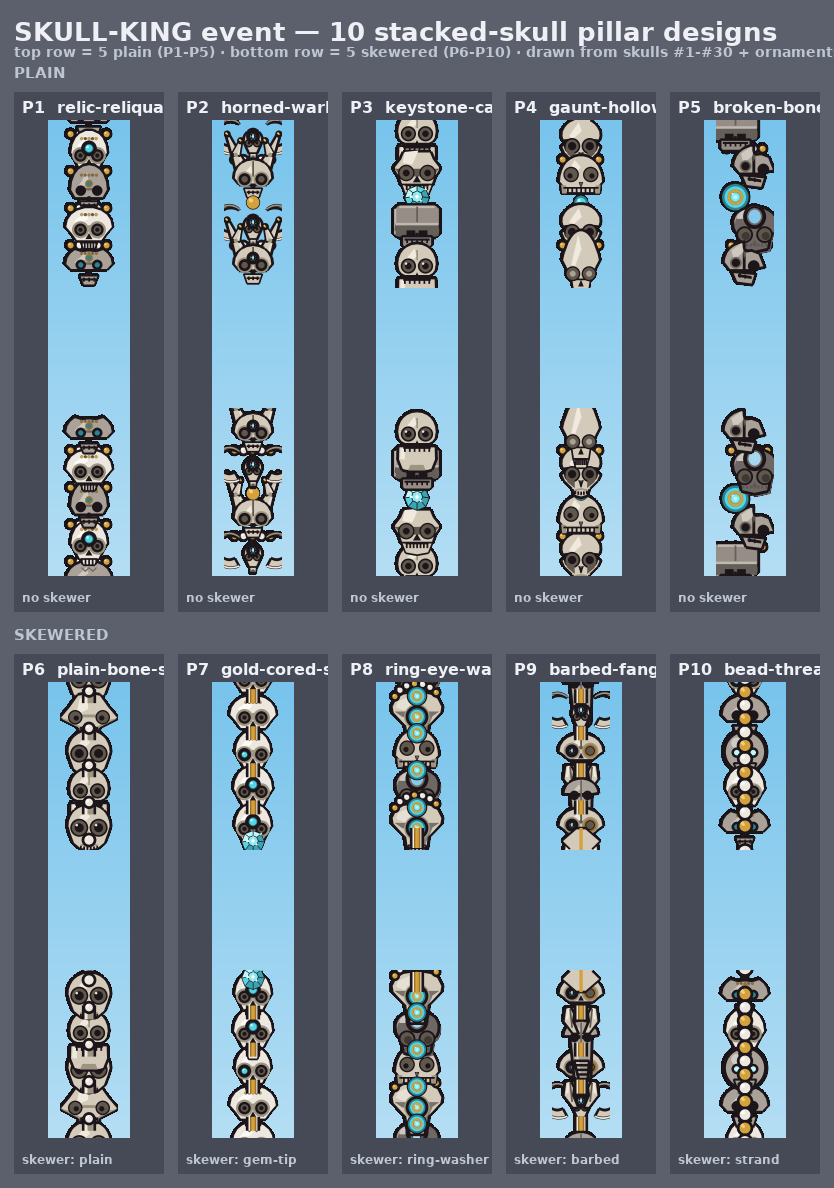
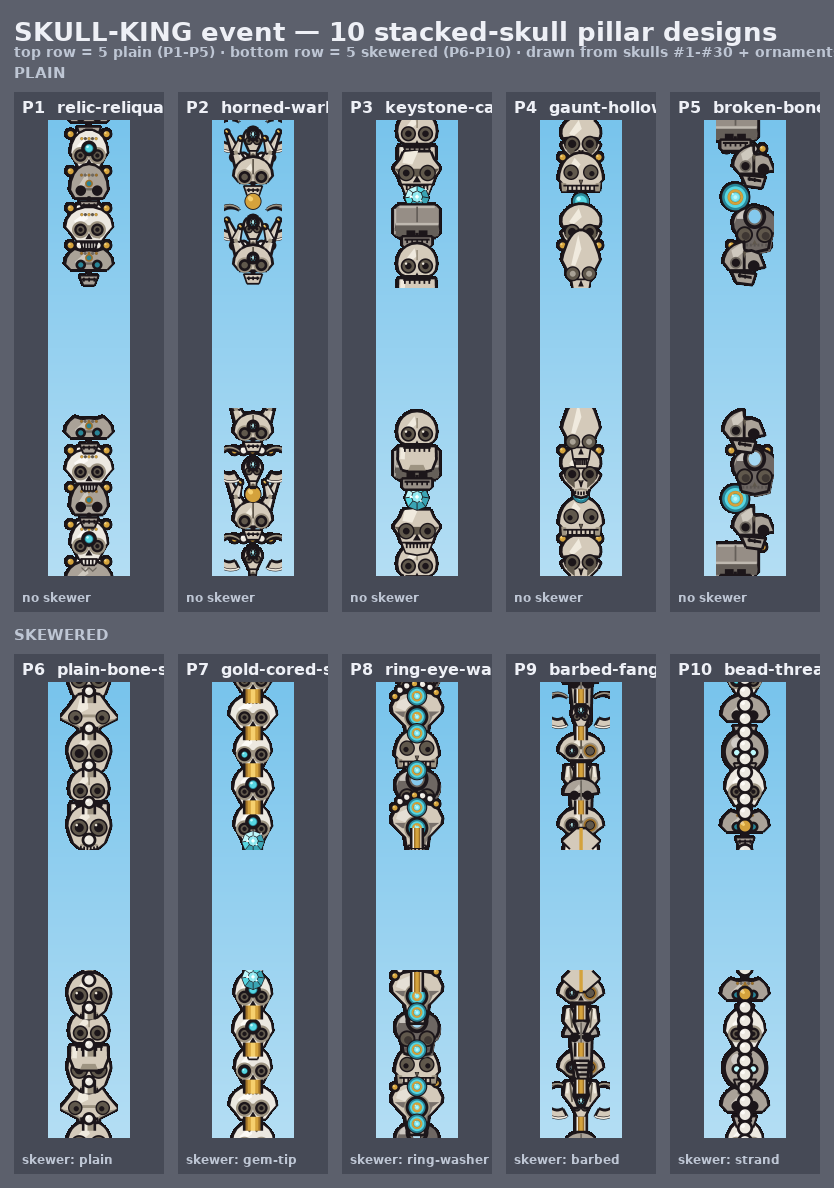
pillars: round-2 art-director fixes
Split the P7/P10 relic-family collision: P7 gold-cored-scepter now rides
a thick bright solid gold rod (the King's staff); P10 strand recolored to
a bone-white bead cord on a thin dark thread (gold dropped) so it reads as
a beaded spindle vs a metal rod. Boosted the seam-joint bead size so P4
gaunt-hollow-spire's lone cyan accent registers at 58px.

Claude-Session: https://claude.ai/code/session_01JdHJ2TbdY51oSPSCYSsaHZ

diff --git a/docs/skull_king_stack/pillars/pillar_engine.py b/docs/skull_king_stack/pillars/pillar_engine.py
@@ -29,7 +29,7 @@ def _meta(token):
     if token.startswith("orn:"):
         fn = token.split(":", 1)[1]
         if fn in _BEAD_FNS:
-            return dict(kind="bead", r=R * 0.30)
+            return dict(kind="bead", r=R * 0.36)        # chunky enough to register as a seam joint at 58px
         if fn == "gem_thirdeye":
             return dict(kind="gem", r=R * 0.54)
         return dict(kind="ring", r=R * 0.58)        # ornament_necklace
@@ -78,11 +78,26 @@ def _rod_plain(big, cx, ya, yb):
     pygame.draw.rect(big, sk.BONE_SH, (cx - hw, y, max(1, int(1.6 * s)), h))
 
 
+def _rod_gold(big, cx, ya, yb):
+    """A thick, bright GOLD scepter core (the King's staff) — gold-dominant and
+    WIDER than the bone rods so the through-line reads as a solid metal shaft, not a
+    bead cord (this is what separates the scepter from the bead-strand spindle)."""
+    s = S_UNIT * SS
+    hw = RK._SK_HW + int(1.6 * s)
+    y, h = int(min(ya, yb)), int(abs(yb - ya))
+    pygame.draw.rect(big, sk.INK, (cx - hw - int(1.4 * s), y, 2 * (hw + int(1.4 * s)), h))
+    pygame.draw.rect(big, sk.GOLD_D, (cx - hw, y, 2 * hw, h))
+    pygame.draw.rect(big, sk.GOLD, (cx - int(hw * 0.72), y, int(hw * 1.44), h))
+    pygame.draw.rect(big, sk.GOLD_BR, (cx - int(hw * 0.30), y, int(hw * 0.60), h))
+
+
 def _skewer_bg(big, cx, y0, y1, style):
     """The shaft drawn BEHIND the stack (shows in the gaps between tiers)."""
     cx = int(cx)
     if style == "plain":
         _rod_plain(big, cx, y0, y1)
+    elif style == "gem-tip":
+        _rod_gold(big, cx, y0, y1)                       # solid bright gold scepter core
     elif style == "strand":
         s = S_UNIT * SS; hw = max(1, int(2.4 * s))      # thin dark rod, hidden by the strand
         y, h = int(min(y0, y1)), int(abs(y1 - y0))
@@ -125,7 +140,7 @@ def _skewer_thread(big, cx, centres, point_y, point_dir, style):
         ya, yb = point_y * SS, centres[-1] * SS
         n = max(2, int(abs(yb - ya) / (7 * SS)))
         pts = [(cx, ya + (yb - ya) * k / n) for k in range(n + 1)]
-        sk.bead_strand(big, pts, int(3.8 * s), s, gold_every=2)
+        sk.bead_strand(big, pts, int(3.8 * s), s, gold_every=99)   # bone-white cord (no gold) vs the gold scepter
         sk.triad_circle(big, sk.BEAD, (cx, int(tip)), max(2, int(4.2 * s)), ow=max(1, int(1.0 * s)), core=False)
         return
 
@@ -135,7 +150,7 @@ def _skewer_thread(big, cx, centres, point_y, point_dir, style):
         RK._rod_seg(big, cx, base, (point_y + point_dir * 22) * SS)
         return
 
-    rod = _rod_plain if style == "plain" else RK._rod_seg
+    rod = {"plain": _rod_plain, "gem-tip": _rod_gold}.get(style, RK._rod_seg)
     for ym in seams:
         rod(big, cx, (ym - 7) * SS, (ym + 7) * SS)
 
